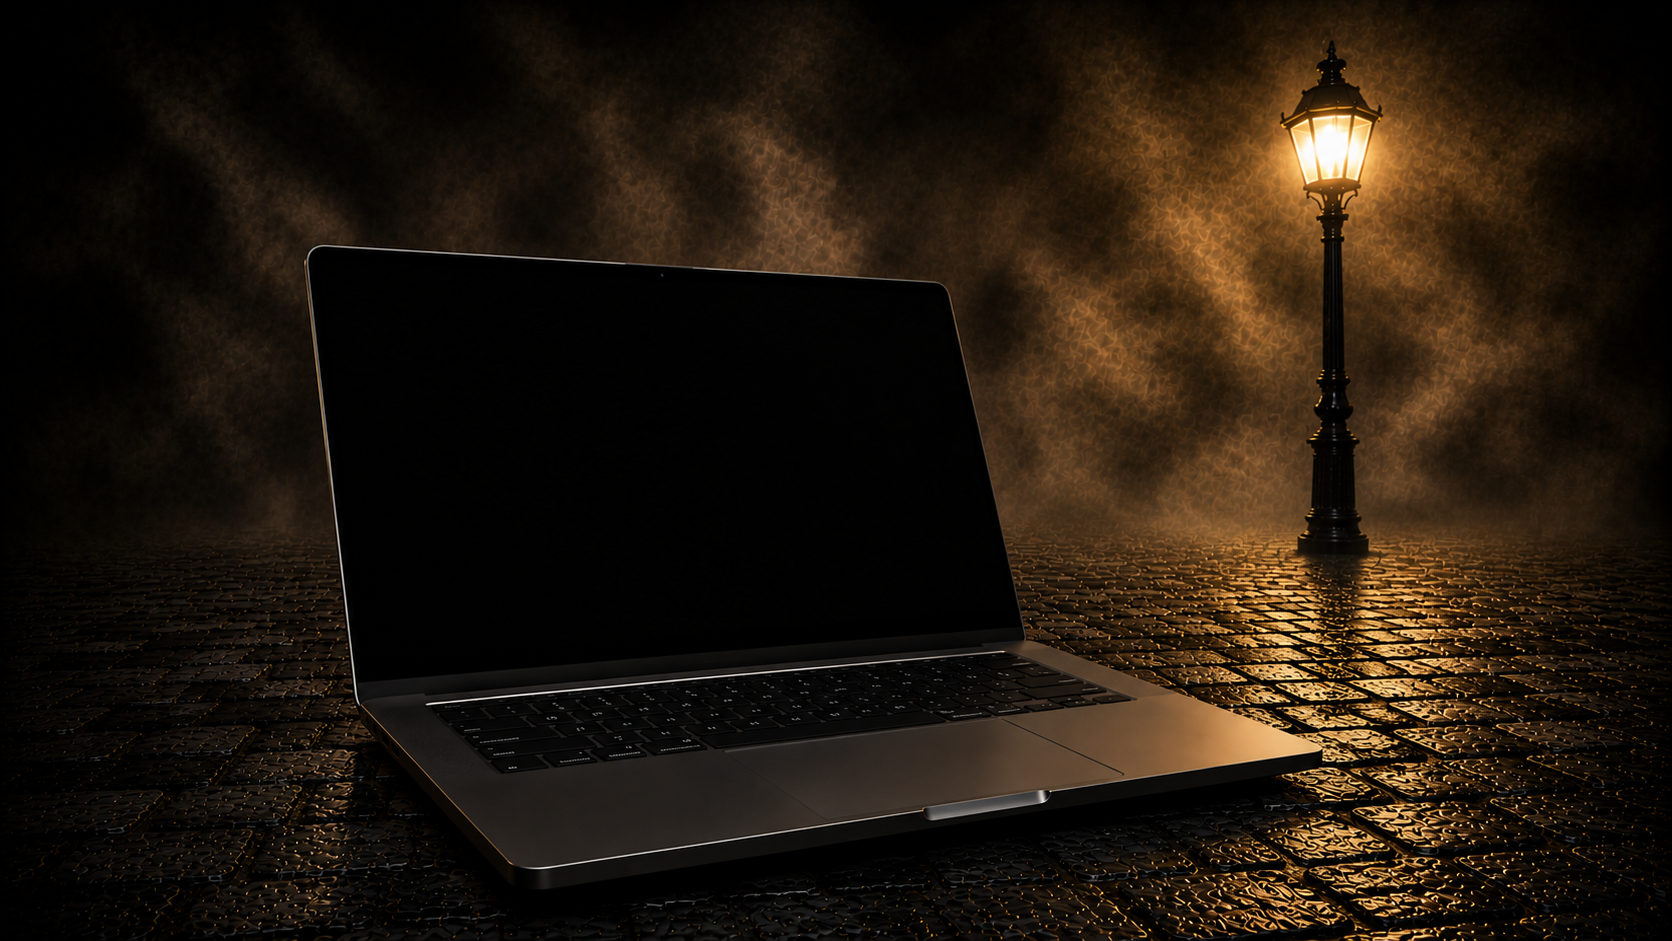
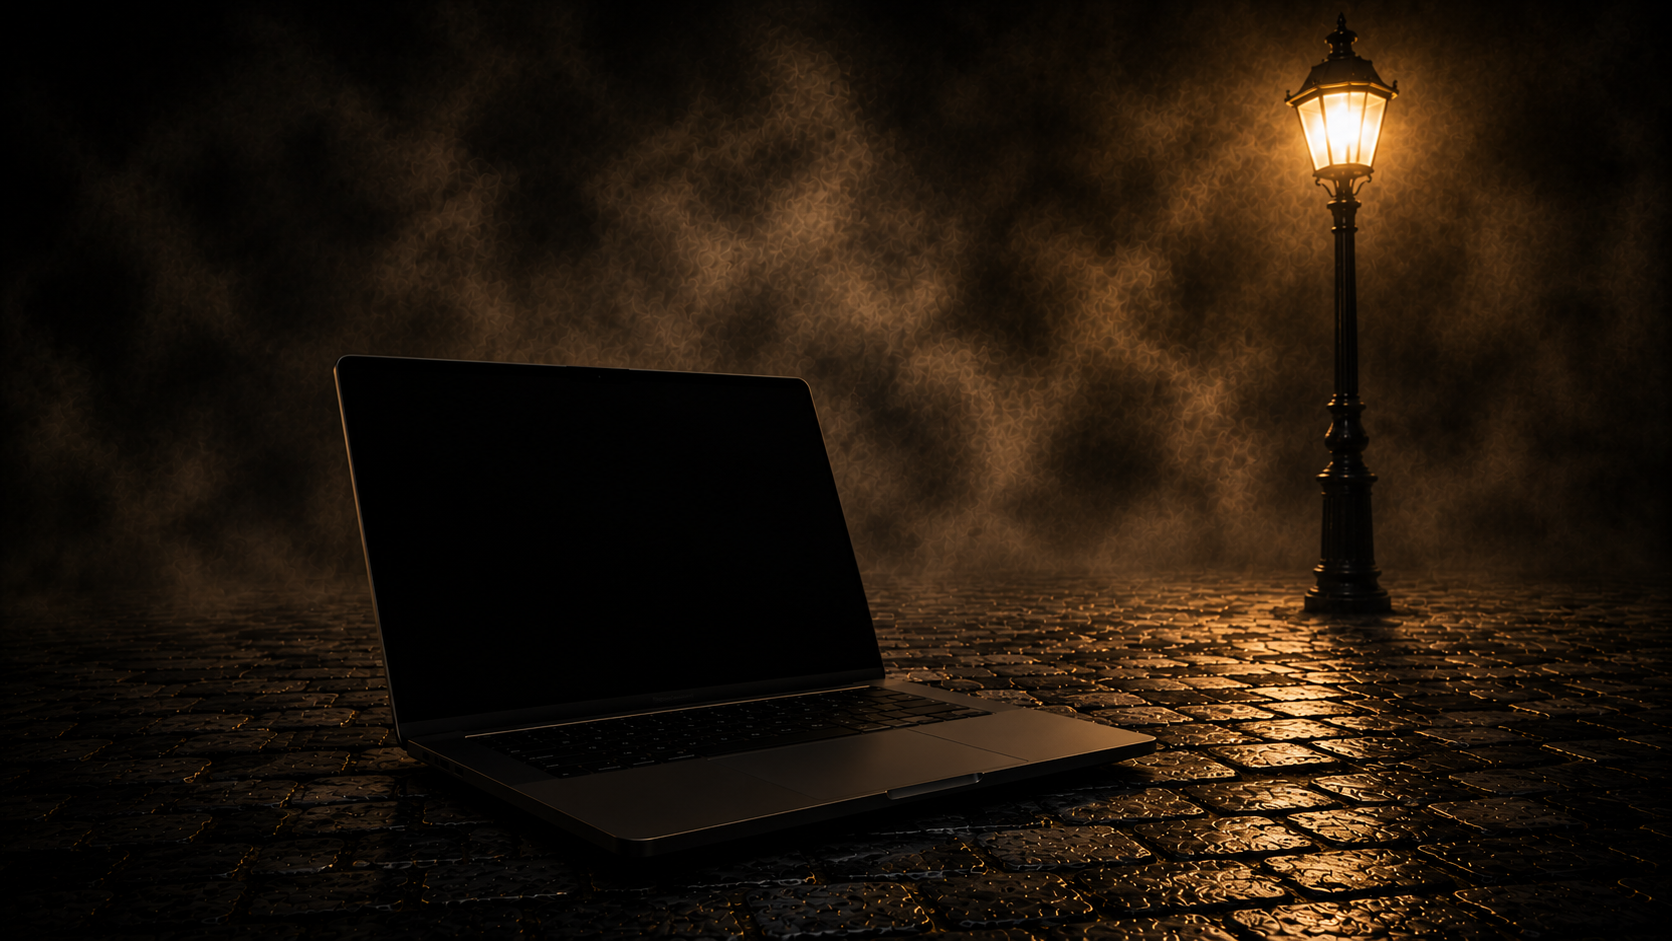
Show the whole scene so the laptop sits smaller
The backdrop filled the window, which on a tall window cropped the street away
and blew the notebook up. It is now fitted whole; the plate's dark edges vanish
into the black ground, and the corner mapping follows the same rule.

The lid also gives its full surface to the running project — the details, which
were unreadable at that scale, move out to a card beside the laptop.

diff --git a/src/components/ProjectsStage.tsx b/src/components/ProjectsStage.tsx
@@ -109,8 +109,10 @@ export const ProjectsStage: React.FC = () => {
       const ratio = plate.naturalWidth / plate.naturalHeight;
       const boxRatio = box.width / box.height;
 
-      const drawnW = boxRatio >= ratio ? box.width : box.height * ratio;
-      const drawnH = boxRatio >= ratio ? box.width / ratio : box.height;
+      // object-contain: die ganze Szene bleibt sichtbar, das Notebook wird
+      // dadurch kleiner. Die dunklen Bildraender gehen im schwarzen Grund auf.
+      const drawnW = boxRatio >= ratio ? box.height * ratio : box.width;
+      const drawnH = boxRatio >= ratio ? box.height : box.width / ratio;
       const originX = (box.width - drawnW) / 2;
       const originY = (box.height - drawnH) / 2;
 
@@ -162,7 +164,7 @@ export const ProjectsStage: React.FC = () => {
         src="/projekt-buehne.jpg"
         alt=""
         onLoad={() => window.dispatchEvent(new Event('resize'))}
-        className="absolute inset-0 h-full w-full object-cover"
+        className="absolute inset-0 h-full w-full object-contain"
       />
       <span
         aria-hidden="true"
@@ -223,7 +225,7 @@ export const ProjectsStage: React.FC = () => {
               transition={{ duration: 0.4, ease: [0.16, 1, 0.3, 1] }}
               className="flex h-full w-full"
             >
-              <div className="relative h-full w-[56%] overflow-hidden bg-[#0B0A09]">
+              <div className="relative h-full w-full overflow-hidden bg-[#0B0A09]">
                 <iframe
                   key={project.githubUrl}
                   src={project.githubUrl}
@@ -245,34 +247,47 @@ export const ProjectsStage: React.FC = () => {
                 </div>
               </div>
 
-              <div className="flex h-full w-[44%] flex-col justify-center gap-3 bg-[#0A0908] px-[2.2vw]">
-                <p className="text-[0.62vw] font-semibold uppercase tracking-[0.34em] text-[#C99E5D]">
+            </motion.div>
+          </AnimatePresence>
+        </div>
+      </div>
+
+      <AnimatePresence mode="wait">
+              <motion.div
+          key={project.number}
+          initial={{ opacity: 0, y: 14 }}
+          animate={{ opacity: 1, y: 0 }}
+          exit={{ opacity: 0, y: -14 }}
+          transition={{ duration: 0.35, ease: [0.16, 1, 0.3, 1] }}
+          className="absolute right-[3vw] top-1/2 flex w-[24vw] -translate-y-1/2 flex-col gap-3 border border-[#8C6D4F]/45 bg-[#0A0908]/85 px-8 py-7 backdrop-blur-md"
+        >
+                <p className="text-[10px] font-semibold uppercase tracking-[0.34em] text-[#C99E5D]">
                   {project.number} / Projekt
                 </p>
                 <h3
-                  className="text-[2vw] uppercase leading-[0.9] text-[#F3E7D8]"
+                  className="text-[26px] uppercase leading-[0.9] text-[#F3E7D8]"
                   style={{ fontFamily: "'Bebas Neue', sans-serif" }}
                 >
                   {project.title}
                 </h3>
-                <p className="text-[0.6vw] font-semibold uppercase tracking-[0.3em] text-[#8C6D4F]">
+                <p className="text-[10px] font-semibold uppercase tracking-[0.3em] text-[#8C6D4F]">
                   {project.category}
                 </p>
 
-                <p className="mt-1 text-[0.68vw] font-light leading-relaxed text-[#A8988B]">
+                <p className="mt-1 text-[12px] font-light leading-relaxed text-[#A8988B]">
                   {project.description}
                 </p>
 
                 <span className="my-1 block h-px w-full bg-[#8C6D4F]/40" />
 
-                <p className="text-[0.55vw] font-semibold uppercase tracking-[0.3em] text-[#8C6D4F]">
+                <p className="text-[9px] font-semibold uppercase tracking-[0.3em] text-[#8C6D4F]">
                   Verwendete Technologien
                 </p>
                 <div className="flex flex-wrap gap-x-3 gap-y-1">
                   {project.tech.slice(0, 6).map((tech) => (
                     <span
                       key={tech}
-                      className="text-[0.58vw] font-semibold uppercase tracking-[0.18em] text-[#D5CBC0]"
+                      className="text-[10px] font-semibold uppercase tracking-[0.18em] text-[#D5CBC0]"
                     >
                       {tech}
                     </span>
@@ -283,15 +298,12 @@ export const ProjectsStage: React.FC = () => {
                   href={project.githubUrl}
                   target="_blank"
                   rel="noopener noreferrer"
-                  className="mt-2 flex items-center justify-between border border-[#C99E5D]/60 px-[1.2vw] py-[0.7vw] text-[0.6vw] font-semibold uppercase tracking-[0.3em] text-[#F3E7D8] transition-colors hover:border-[#D4AF37] hover:text-[#F7E7C4]"
+                  className="mt-2 flex items-center justify-between border border-[#C99E5D]/60 px-4 py-3 text-[10px] font-semibold uppercase tracking-[0.3em] text-[#F3E7D8] transition-colors hover:border-[#D4AF37] hover:text-[#F7E7C4]"
                 >
                   Projekt öffnen <span aria-hidden="true">↗</span>
                 </a>
-              </div>
-            </motion.div>
-          </AnimatePresence>
-        </div>
-      </div>
+              </motion.div>
+      </AnimatePresence>
 
       <div className="absolute right-[2.5vw] top-[7vh] flex flex-col items-end gap-4">
         <p className="text-[13px] tracking-[0.3em] text-[#C99E5D]">
